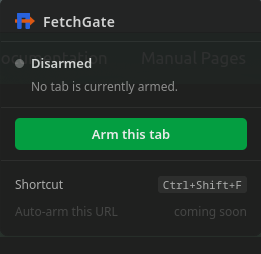
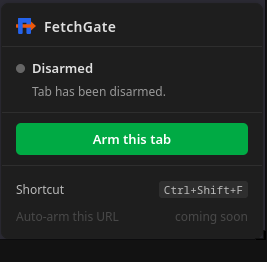
Fix disarm reason on wrong tab; fix ERR reconnect notification; update screenshots; bump to 0.2.4

diff --git a/extension/background.js b/extension/background.js
@@ -14,9 +14,11 @@ let armedTabId = null;
 // The Native Messaging port to the native host (null = not connected).
 let port = null;
 
-// The reason the tab was last disarmed — shown in the popup's disarmed state
-// so the user can always find out why, even after missing the notification.
-let lastDisarmReason = null;
+// The reason the tab was last disarmed, and which tab it was.
+// Only shown in the popup when the popup is open on that same tab,
+// so unrelated tabs see a neutral "No tab is currently armed." instead.
+let lastDisarmReason  = null;
+let lastDisarmedTabId = null;
 
 // The last tab the user was on — updated by onActivated so the popup can
 // find it even when opening a popup shifts the "current window" context.
@@ -158,8 +160,9 @@ async function arm(tabId) {
 }
 
 function disarm(tabId, reason) {
-    armedTabId = null;
-    lastDisarmReason = reason || null;
+    armedTabId        = null;
+    lastDisarmReason  = reason || null;
+    lastDisarmedTabId = tabId;
     browser.storage.local.remove('armedTabId');
     browser.browserAction.setBadgeText({ text: '', tabId });
     if (reason) notify('FetchGate Disarmed', reason);
@@ -169,7 +172,7 @@ function disarm(tabId, reason) {
 // Called by popup.js — let variables are not properties of window,
 // so bg.armedTabId / bg.port would return undefined.
 function getState() {
-    return { armedTabId, portConnected: !!port, lastDisarmReason };
+    return { armedTabId, portConnected: !!port, lastDisarmReason, lastDisarmedTabId };
 }
 
 // Returns the tab the user was on when they opened the popup.
@@ -220,7 +223,10 @@ browser.commands.onCommand.addListener((command) => {
         if (armedTabId === tab.id && port !== null) {
             disarm(tab.id, 'Tab has been disarmed.');
         } else {
-            if (armedTabId !== null) disarm(armedTabId, 'Switched to a different tab.');
+            if (armedTabId !== null) {
+                // Don't fire "switched" when reconnecting the same tab from ERR state.
+                disarm(armedTabId, armedTabId === tab.id ? null : 'Switched to a different tab.');
+            }
             arm(tab.id);
         }
     });

diff --git a/extension/popup.js b/extension/popup.js
@@ -32,7 +32,7 @@ async function init() {
 }
 
 async function renderStatus() {
-    const { armedTabId, portConnected, lastDisarmReason } = bg.getState();
+    const { armedTabId, portConnected, lastDisarmReason, lastDisarmedTabId } = bg.getState();
 
     let armedTab = null;
     if (armedTabId !== null) {
@@ -46,7 +46,8 @@ async function renderStatus() {
         // ── Disarmed ─────────────────────────────────────────────
         setDot('disarmed');
         statusLabel.textContent  = 'Disarmed';
-        statusDetail.textContent = lastDisarmReason || 'No tab is currently armed.';
+        const onDisarmedTab = currentTab && currentTab.id === lastDisarmedTabId;
+        statusDetail.textContent = (onDisarmedTab && lastDisarmReason) || 'No tab is currently armed.';
         setBtn('arm', 'Arm this tab', async () => {
             if (currentTab) await bg.arm(currentTab.id);
             window.close();

diff --git a/extension/help.html b/extension/help.html
@@ -379,7 +379,7 @@ cp fetchgate_py.json ~/.mozilla/native-messaging-hosts/fetchgate.json</code></pr
 
 // Error
 {"__fg_id": 1, "error": "description"}</code></pre>
-  <p><code>req</code> is the caller's JSON serialized as a string so the extension can delegate JSON validation to <code>JSON.parse()</code>. Echo <code>__fg_id</code> in every reply so the extension can match responses to requests and discard stale ones from a previous connection.</p>
+  <p><code>req</code> is the caller's JSON serialized as a string so the extension can delegate JSON validation to <code>JSON.parse()</code>. Echo <code>__fg_id</code> in every reply so the extension can match each response to its originating request.</p>
 
   <h2 id="troubleshooting">Troubleshooting</h2>
 

diff --git a/README.md b/README.md
@@ -1,9 +1,7 @@
 # FetchGate
 
 <p align="center">
-  <img src="docs/popup_disarmed.png" alt="FetchGate popup — disarmed" width="261">
-  &nbsp;&nbsp;&nbsp;&nbsp;
-  <img src="docs/popup_armed.png" alt="FetchGate popup — armed" width="261">
+  <img src="docs/popup_states.png" alt="FetchGate popup states — disarmed, armed, armed on other tab" width="760">
 </p>
 
 A Firefox WebExtension that bridges an external process to a live,
@@ -251,7 +249,7 @@ Full step-by-step instructions for all hosts are in **[INSTALL.md](INSTALL.md)**
 
 ### Step 1 — Install the extension
 
-Download **[fetchgate-0.2.3.xpi](https://github.com/simddev/FetchGate/releases/latest)** from the Releases page, then install it in Firefox or LibreWolf using either method:
+Download **[fetchgate-0.2.4.xpi](https://github.com/simddev/FetchGate/releases/latest)** from the Releases page, then install it in Firefox or LibreWolf using either method:
 
 - **Drag and drop:** drag the `.xpi` file into any browser window and click **Add** when prompted.
 - **From the Add-ons Manager:** open `about:addons`, click the gear icon ⚙ → **Install Add-on From File**, and select the `.xpi`.
@@ -536,7 +534,7 @@ Dockerfile              Multi-stage build for the Java host (no JDK required)
 fetchgate.json          Native Messaging manifest template — Java host
 fetchgate_py.json       Native Messaging manifest template — Python embedded host
 fetchgate_tcp_py.json   Native Messaging manifest template — Python TCP host
-fetchgate-0.2.3.xpi     Signed extension — install directly in Firefox or LibreWolf
+fetchgate-0.2.4.xpi     Signed extension — install directly in Firefox or LibreWolf
 INSTALL.md              Step-by-step installation guide
 ```
 

diff --git a/INSTALL.md b/INSTALL.md
@@ -4,7 +4,7 @@
 
 The extension is the same regardless of which host you use. Install it first.
 
-Download **[fetchgate-0.2.3.xpi](https://github.com/simddev/FetchGate/releases/latest)**
+Download **[fetchgate-0.2.4.xpi](https://github.com/simddev/FetchGate/releases/latest)**
 from the Releases page, then install it using either method:
 
 - **Drag and drop:** drag the `.xpi` file into any Firefox or LibreWolf window